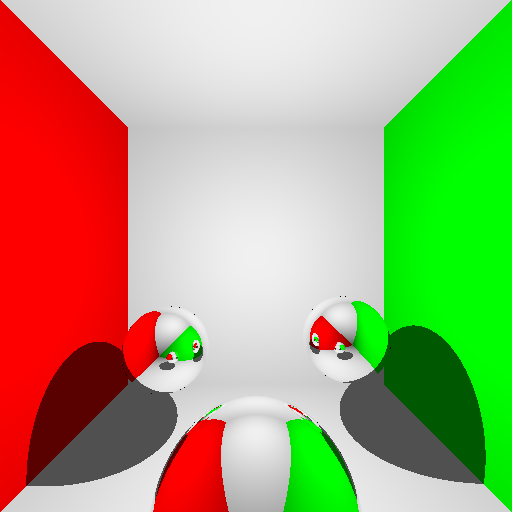
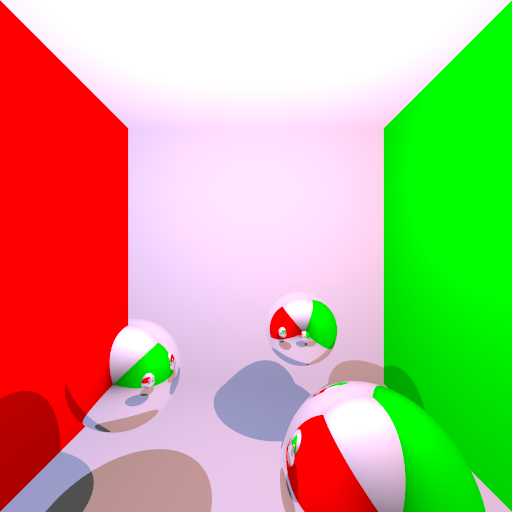
Adds supersampling, improves scene a bit.

diff --git a/src/raytracer.cpp b/src/raytracer.cpp
@@ -6,6 +6,7 @@
 #include <vector>
 #include <variant>
 #include <optional>
+#include <random>
 
 struct Vec3
 {
@@ -427,31 +428,40 @@ int main()
   scene.objects.push_back(Object { Plane { &other_plane, Vec3 {  0, 0, 10  }, Vec3 { 0, 0, -1  } } });
 
   // some spheres
-  scene.objects.push_back(Object { Sphere { &mirror_sphere, Vec3 { 0, -5, -5 }, 2.0 } });
-  scene.objects.push_back(Object { Sphere { &mirror_sphere, Vec3 { 4.33, -4, 2.5 }, 2.0 } });
-  scene.objects.push_back(Object { Sphere { &mirror_sphere, Vec3 { -4.33, -4.5, 2.5 }, 2.0 } });
+  scene.objects.push_back(Object { Sphere { &mirror_sphere, Vec3 { -5, -4.5, 0 }, 2.0 } });
+  scene.objects.push_back(Object { Sphere { &mirror_sphere, Vec3 { 2.5, -4.0, 4.33 }, 2.0 } });
+  scene.objects.push_back(Object { Sphere { &mirror_sphere, Vec3 { 2.5, -5.0, -4.33 }, 2.0 } });
   
   // some lights
-  scene.lights.push_back(PointLight { Vec3{0,0,0}, 10.0f, Color{1,1,1} });
+  scene.lights.push_back(PointLight { Vec3{5,5,0}, 10.0f, Color{1,0.5,0.5} });
+  scene.lights.push_back(PointLight { Vec3{-5,5,0}, 10.0f, Color{0.5,0.5,1} });
 
+  size_t super_sampling = 64;
+  std::default_random_engine rng;
+  std::uniform_real_distribution<float> rng_dist(-0.5, 0.5);
+  
   for(size_t y = 0; y < target.height; y++)
   {
     for(size_t x = 0; x < target.width; x++)
     {
-      float ss_x = 2.0 * float(x) / float(target.width - 1) - 1.0;
-      float ss_y = 1.0 - 2.0 * float(y) / float(target.height - 1);
-
-      Vec3 ray_origin = camera.position;
-      Vec3 ray_direction = camera.projectRay(ss_x, ss_y);
-
-      if(auto color = scene.trace(ray_origin, ray_direction))
+      Color final { 0.0 };
+      for(size_t i = 0; i < super_sampling; i++)
       {
-        target.set(x, y, *color);
+        float dx = rng_dist(rng);
+        float dy = rng_dist(rng);
+
+        float ss_x = 2.0 * float(x + dx) / float(target.width - 1) - 1.0;
+        float ss_y = 1.0 - 2.0 * float(y + dy) / float(target.height - 1);
+
+        Vec3 ray_origin = camera.position;
+        Vec3 ray_direction = camera.projectRay(ss_x, ss_y);
+
+        if(auto color = scene.trace(ray_origin, ray_direction))
+        {
+          final += *color;
+        }
       }
-      else 
-      {
-        target.set(x, y, Color(0));
-      }
+      target.set(x, y, final * (1.0 / float(super_sampling)));
     }
   }
 
